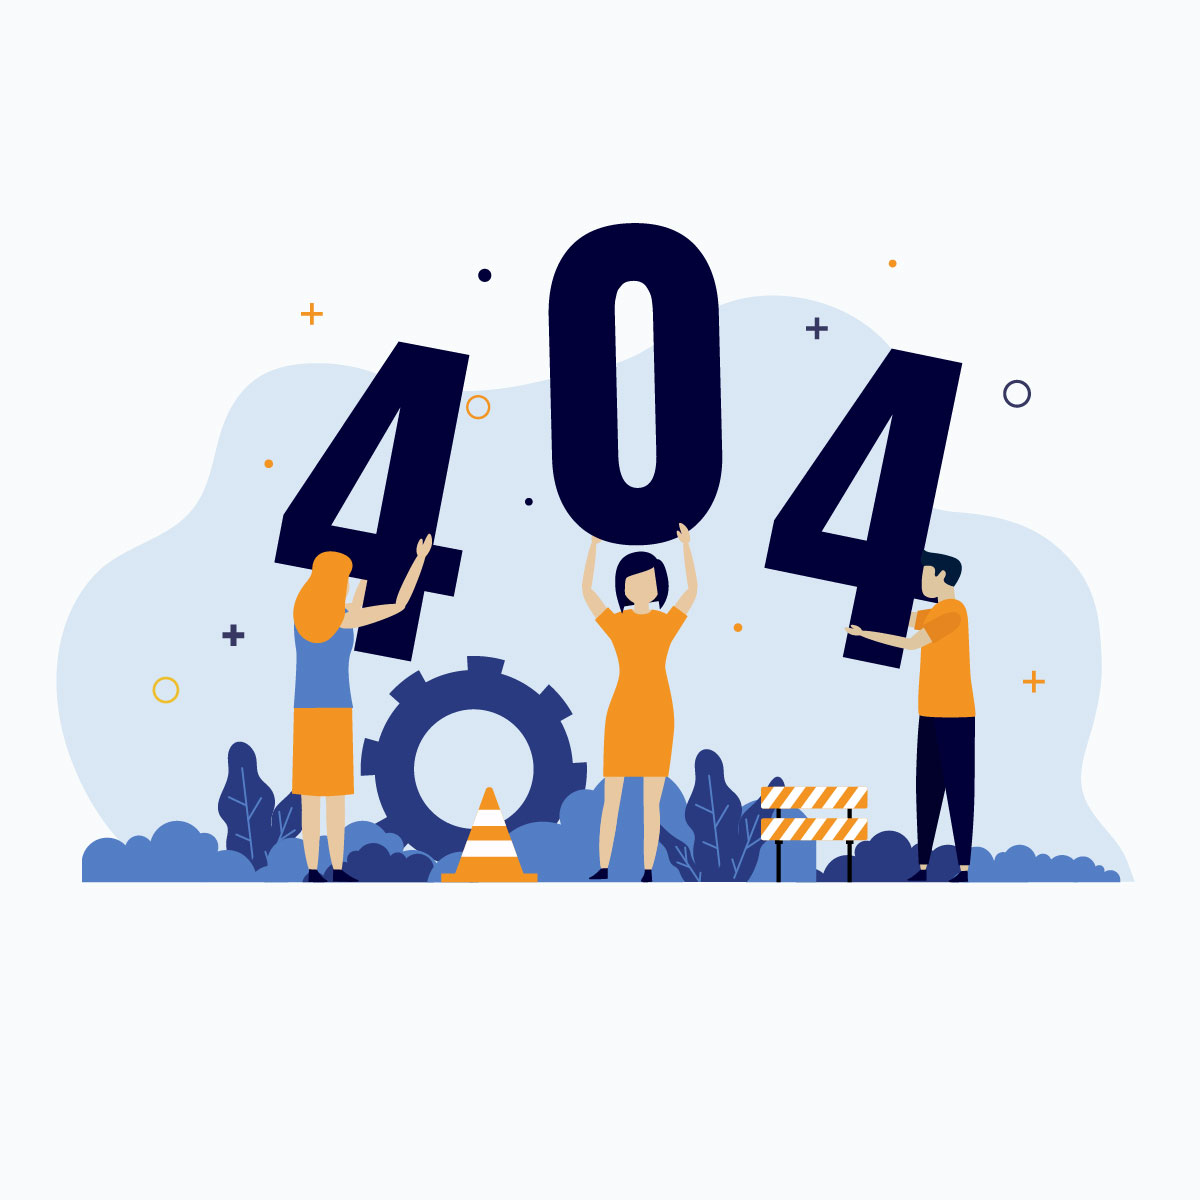
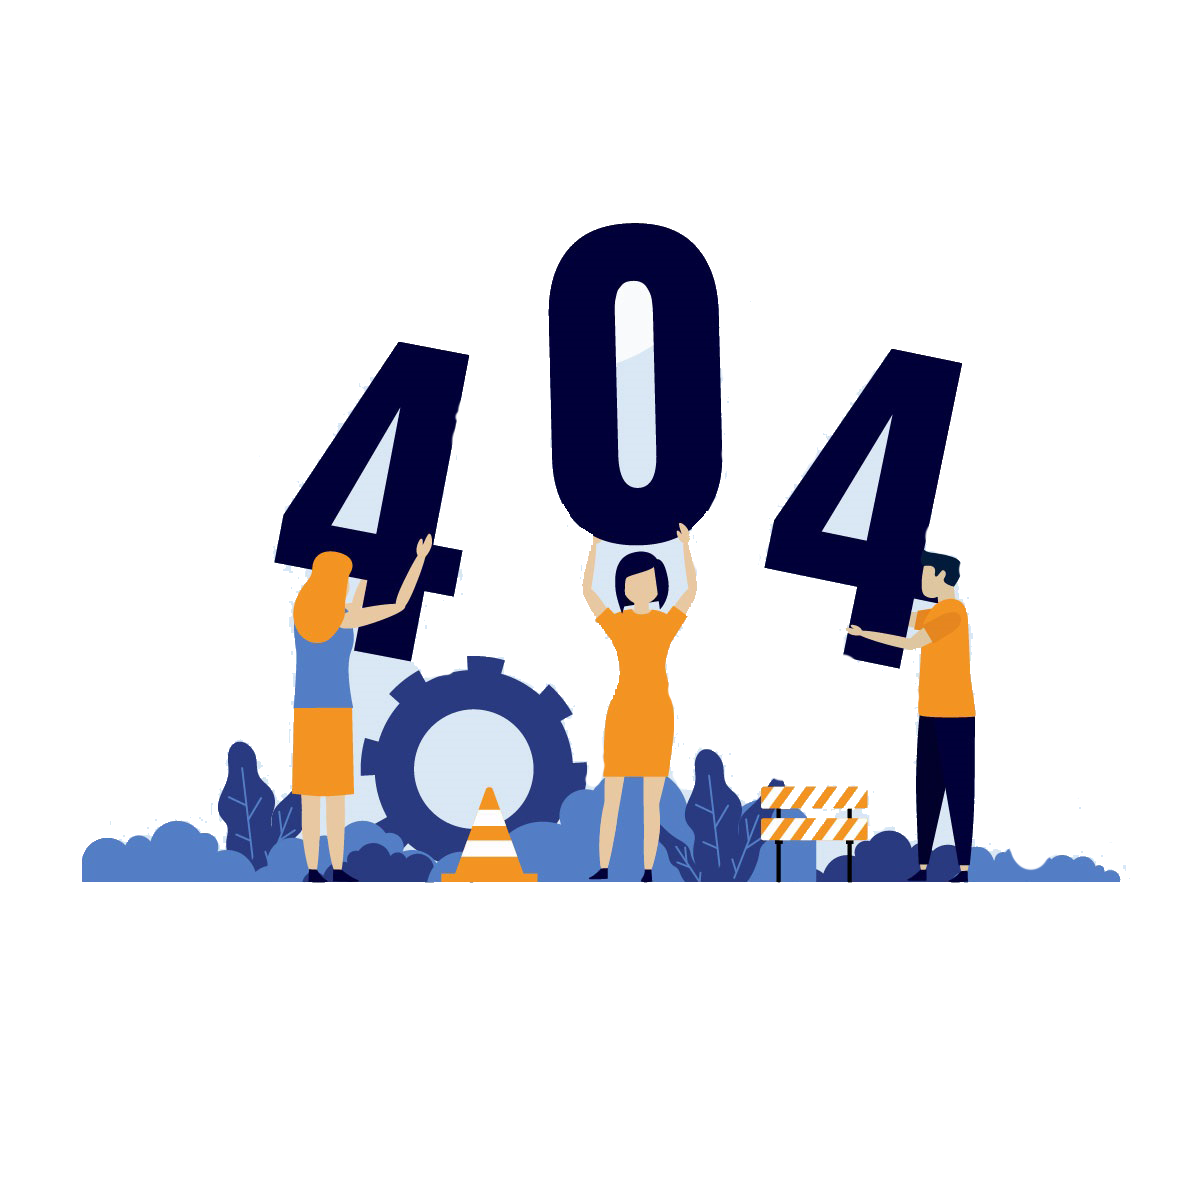
new images

diff --git a/front-end/lib/screens/introduction_screen.dart b/front-end/lib/screens/introduction_screen.dart
@@ -45,7 +45,7 @@ class _IntroductionViewState extends State<IntroductionView> {
   Widget _buildImage(String assetName) {
     return Align(
       alignment: Alignment.bottomCenter,
-      child: Image.asset('assets/images/$assetName.jpg', width: 350.0),
+      child: Image.asset('assets/images/$assetName.png', width: 350.0),
     );
   }
 
